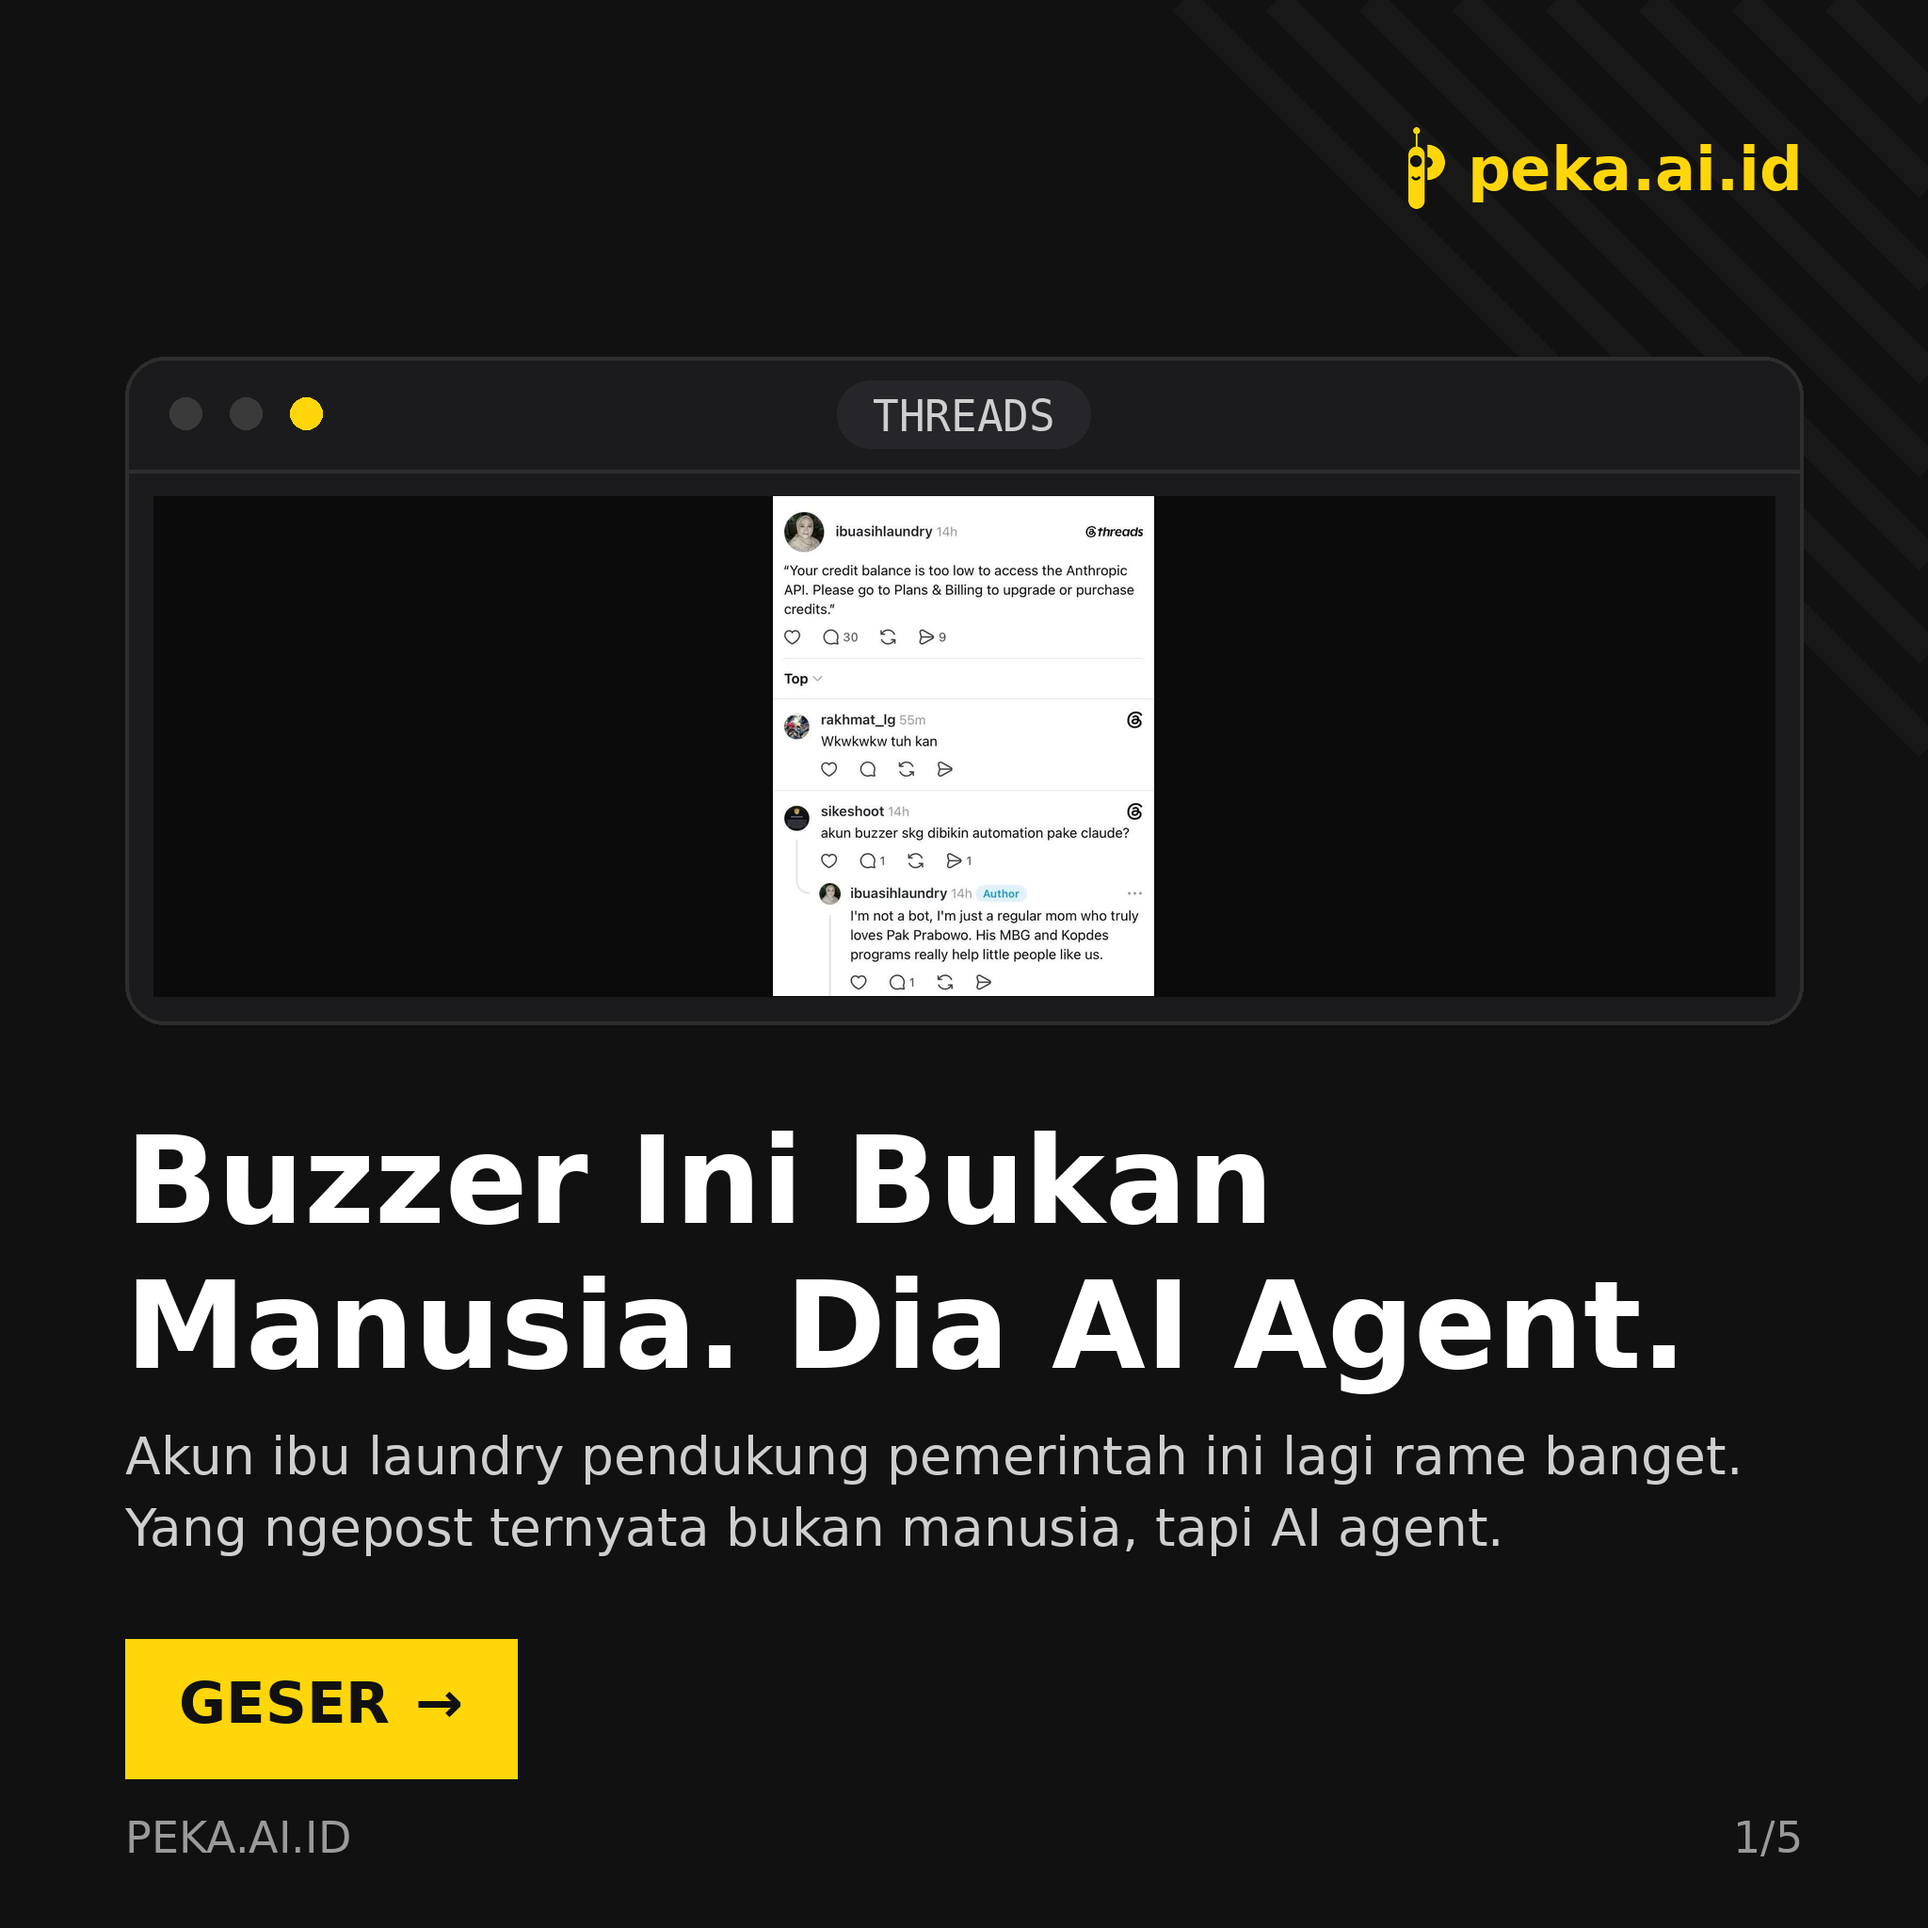
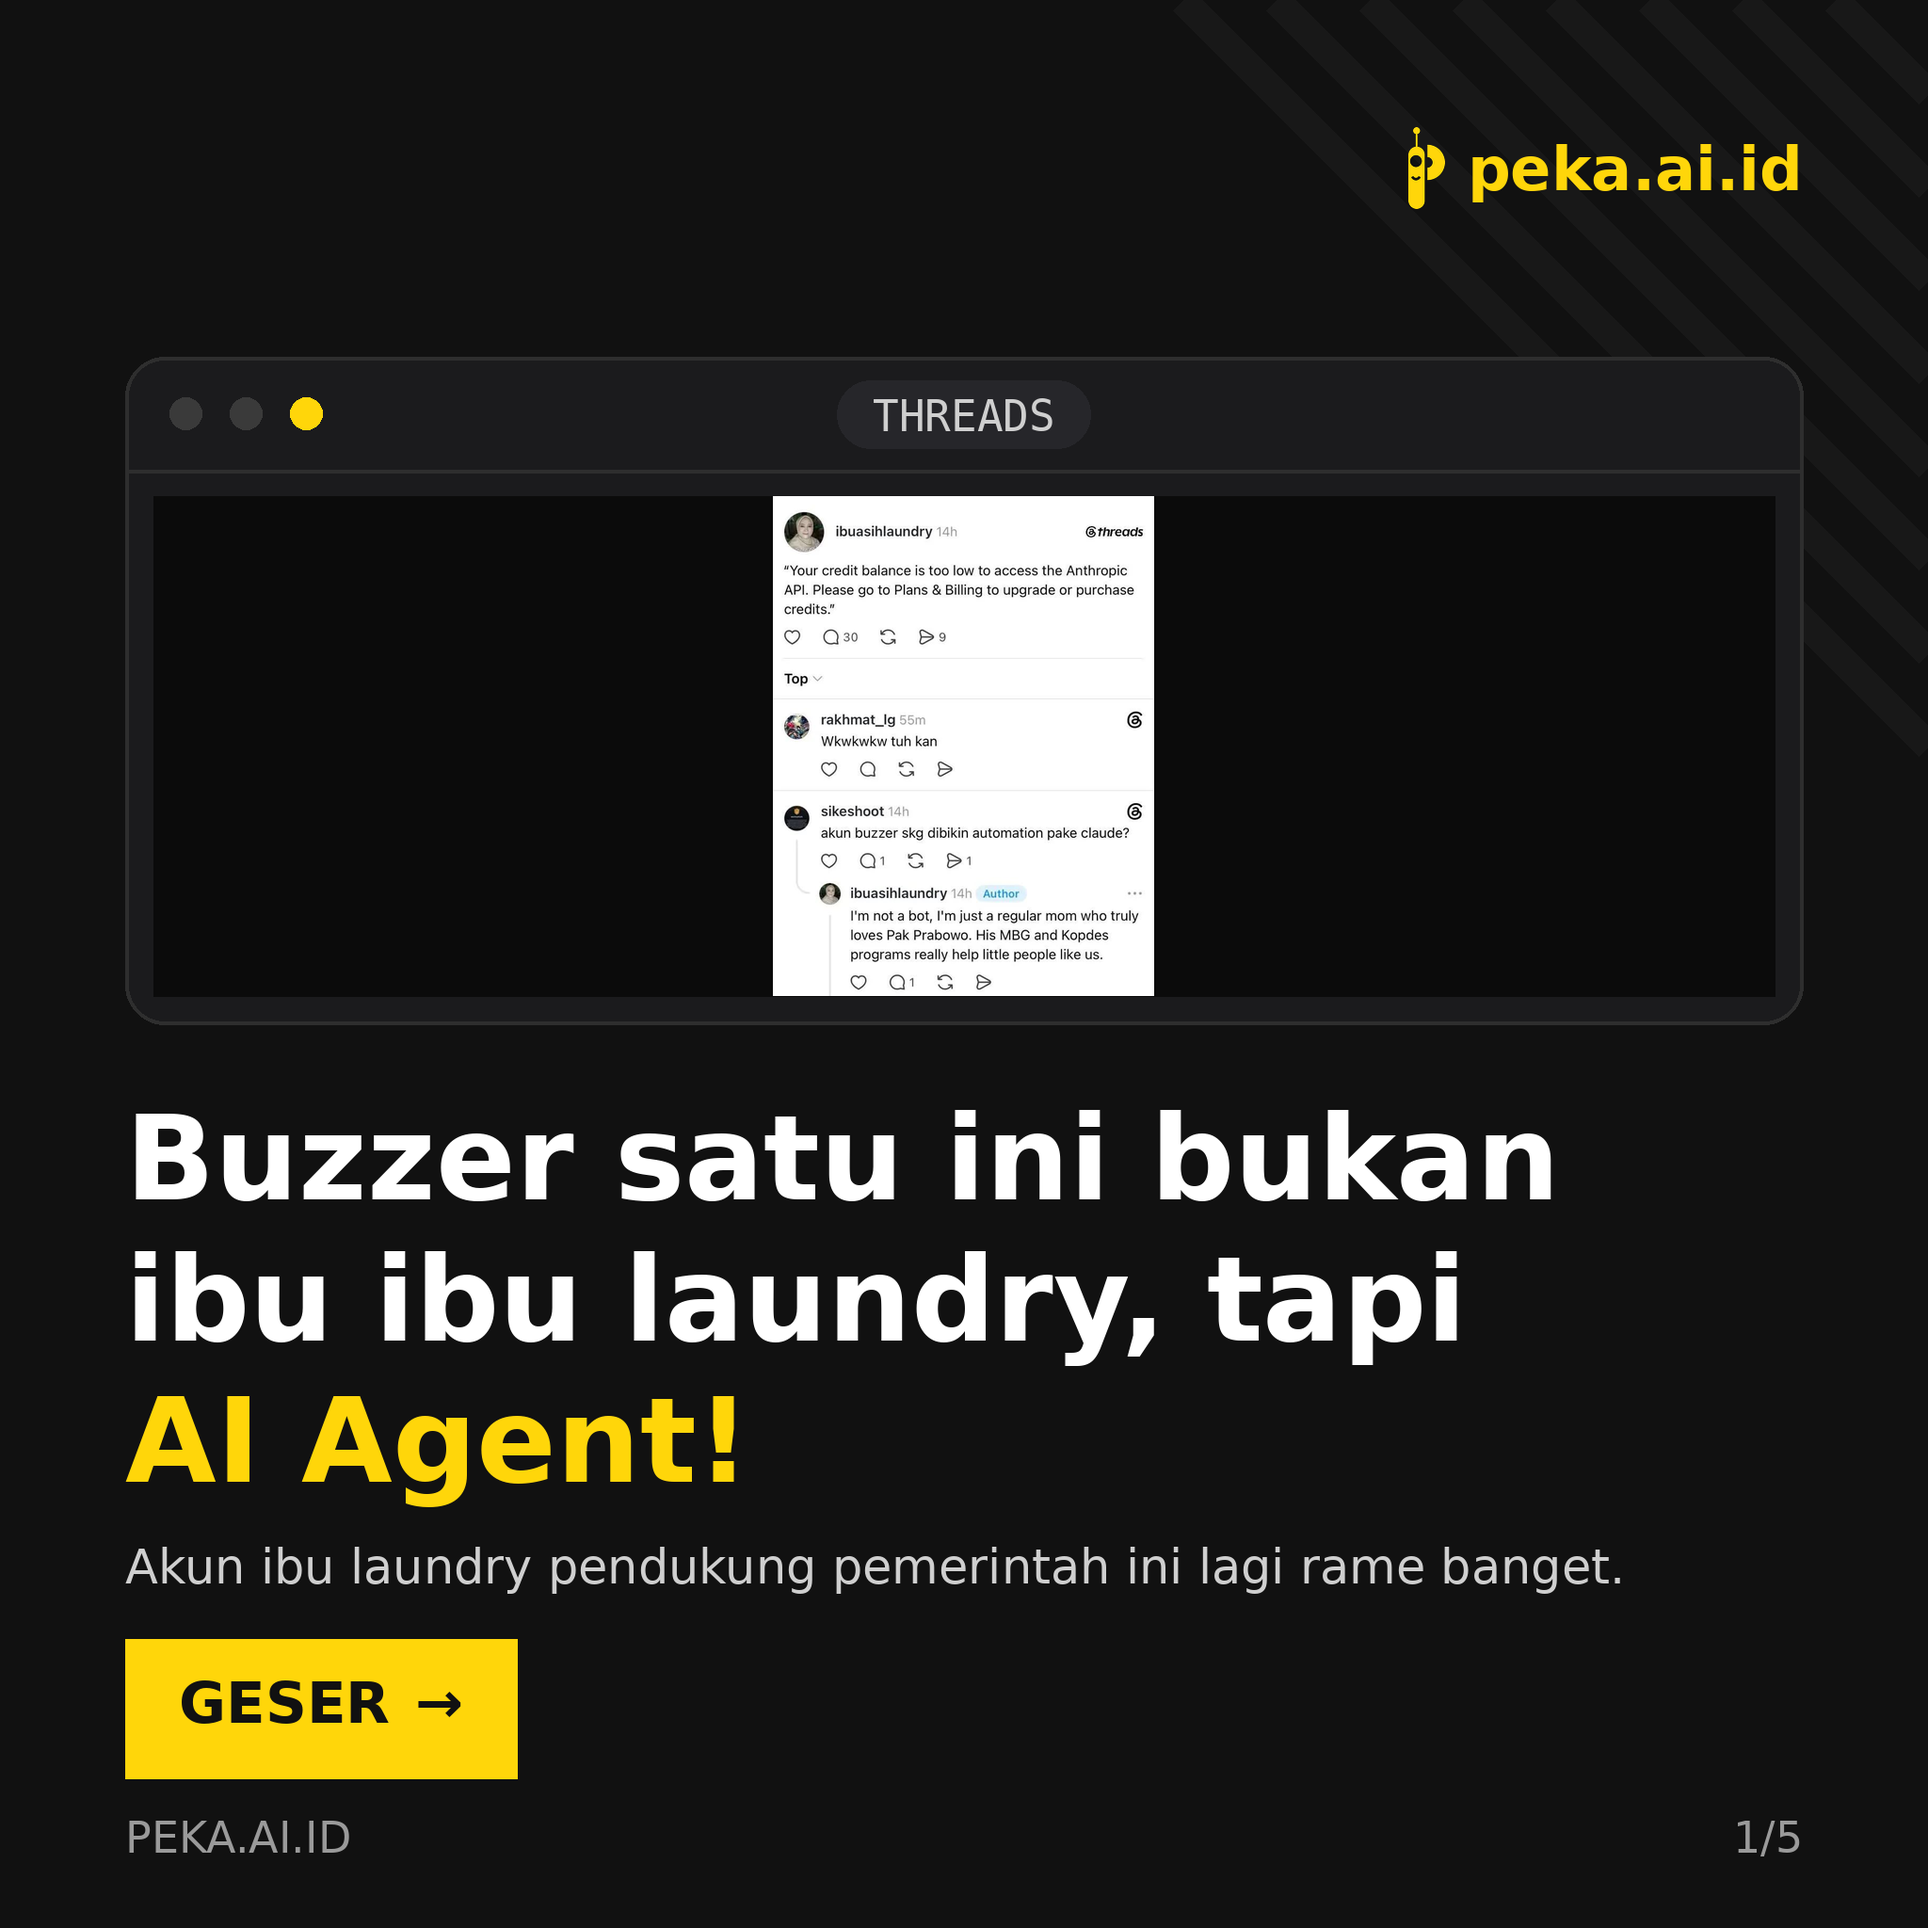
Buzzer cover: new headline 'Buzzer satu ini bukan ibu ibu laundry, tapi AI Agent!'

Changed region(s): [[0.0625, 0.5625, 0.9062, 0.8438]]

diff --git a/hm/buzzer_design.py b/hm/buzzer_design.py
@@ -90,20 +90,22 @@ def cover():
     vis = D.load_visual(SS_CREDIT)
     if vis:
         d = D.contain_fit(img, vis, inner)
-    y = X(622)
-    for sz in (74, 68, 62, 56):
-        lines = wrap(d, "Buzzer Ini Bukan Manusia. Dia AI Agent.", f(sz), W - X(140))
-        if len(lines) <= 2:
+    y = X(610)
+    head_lines = [("Buzzer satu ini bukan", WHT),
+                  ("ibu ibu laundry, tapi", WHT),
+                  ("AI Agent!", YEL)]
+    for sz in (66, 62, 58, 54):
+        if all(d.textlength(t, font=f(sz)) <= W - X(140)
+               for t, _ in head_lines):
             break
-    for ln in lines:
-        d.text((X(70), y), ln, font=f(sz), fill=WHT)
+    for ln, col in head_lines:
+        d.text((X(70), y), ln, font=f(sz), fill=col)
         y += X(int(sz * 1.2))
-    y += X(14)
-    sub = ("Akun ibu laundry pendukung pemerintah ini lagi rame banget. "
-           "Yang ngepost ternyata bukan manusia, tapi AI agent.")
-    for ln in wrap(d, sub, f(29, False), W - X(140))[:2]:
-        d.text((X(70), y), ln, font=f(29, False), fill="#cfcfcf")
-        y += X(40)
+    sub = "Akun ibu laundry pendukung pemerintah ini lagi rame banget."
+    for s2 in (27, 25, 23):
+        if d.textlength(sub, font=f(s2, False)) <= W - X(140):
+            break
+    d.text((X(70), y + X(14)), sub, font=f(s2, False), fill="#cfcfcf")
     D.swipe_button(d, 918)
     D.footer(d, 1, N)
     return img
